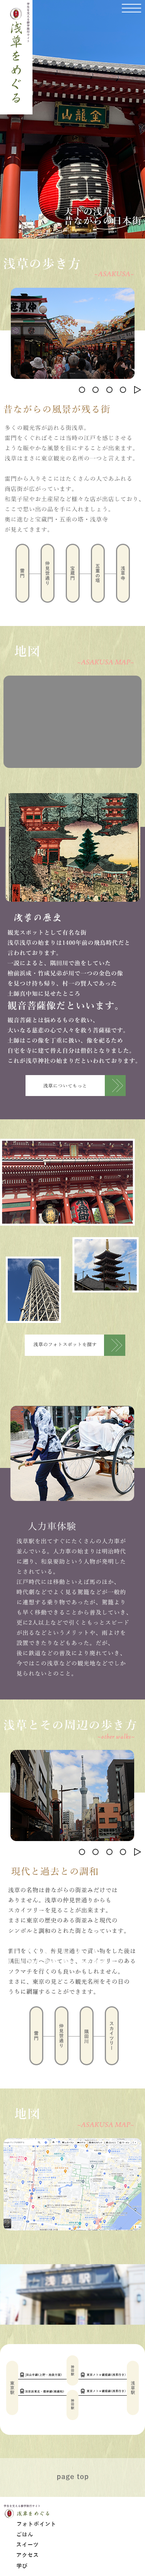
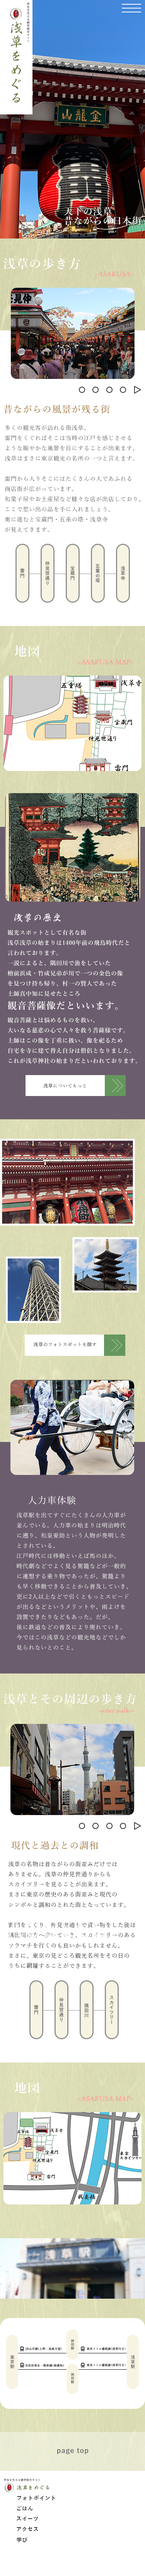
footer実装

diff --git a/src/components/pages/Home/index.tsx b/src/components/pages/Home/index.tsx
@@ -30,6 +30,7 @@ import ClientWorks, { type ClientWork } from "@/src/data/ClientWorks";
 import Modal from "../Modal";
 import NavMenu, { type NavMenuData } from "../../organisms/NavMenu";
 import PlayButton from "../../atoms/PlayButton";
+import Footer from "../../organisms/Footer";
 
 const NavMenuData: NavMenuData[] = [
   { label: "Top", href: "#top" },
@@ -38,7 +39,6 @@ const NavMenuData: NavMenuData[] = [
   { label: "My Works", href: "#MyWorks" },
   { label: "Client", href: "#Client" },
   { label: "Illustration", href: "#Illustration" },
-  { label: "Contact", href: "#Contact" },
 ];
 
 const notoSansJP = Noto_Sans_JP({
@@ -150,8 +150,7 @@ export default function Home() {
             <Modal work={selectedWork} onClose={() => setSelectedWork(null)} />
           )}
         </section>
-
-        <footer></footer>
+        <Footer/>
       </main>
     </div>
   );

diff --git a/src/components/organisms/Footer/index.tsx b/src/components/organisms/Footer/index.tsx
@@ -1,0 +1,17 @@
+import styles from "./index.module.css";
+import Image from "next/image";
+
+export default function Footer() {
+  return (
+        <footer className={styles.FooterPosition}>
+          <h5 className={styles.FooterName}>IGUSA TOMOYA</h5>
+          <Image
+            src="/top/FooterBg.jpg"
+            alt="Footer写真"
+            className={styles.FooterPhoto}
+            width={1440}
+            height={320}
+          ></Image>
+        </footer>
+  );
+}

diff --git a/src/components/organisms/Footer/index.module.css b/src/components/organisms/Footer/index.module.css
@@ -1,0 +1,18 @@
+
+/* Footer */
+.FooterPosition {
+  position: relative;
+}
+
+.FooterName {
+  position: absolute;
+  top: 10px;
+  left: 25px;
+  font-size: 32px;
+  color: #FFF;
+}
+
+.FooterPhoto {
+  width: 100%;
+  object-fit: cover;
+}

diff --git a/src/components/pages/Home/index.module.css b/src/components/pages/Home/index.module.css
@@ -294,5 +294,5 @@ a.secondary {
 .ClientWorkSection {
   width: auto;
   max-width: 1440px;
-  margin: 100px auto 0;
+  margin: 100px auto 100px;
 }
